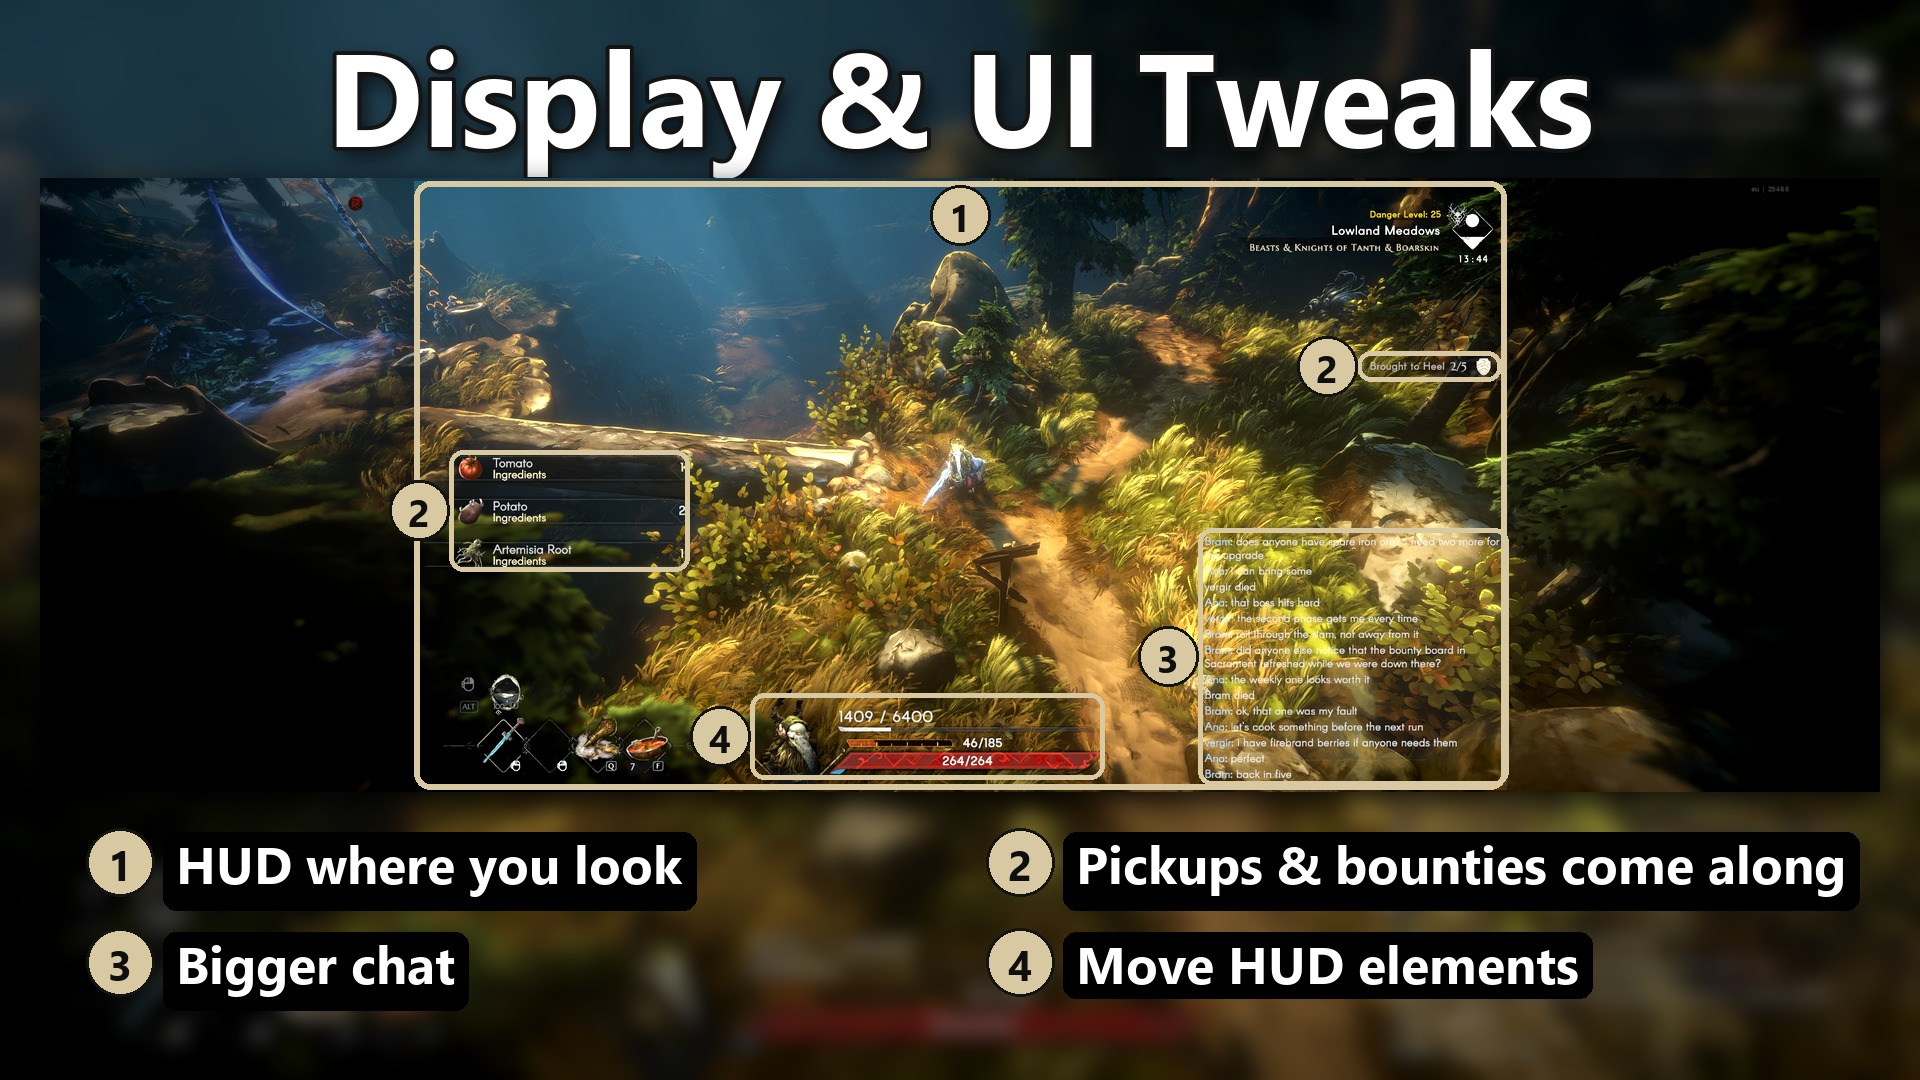
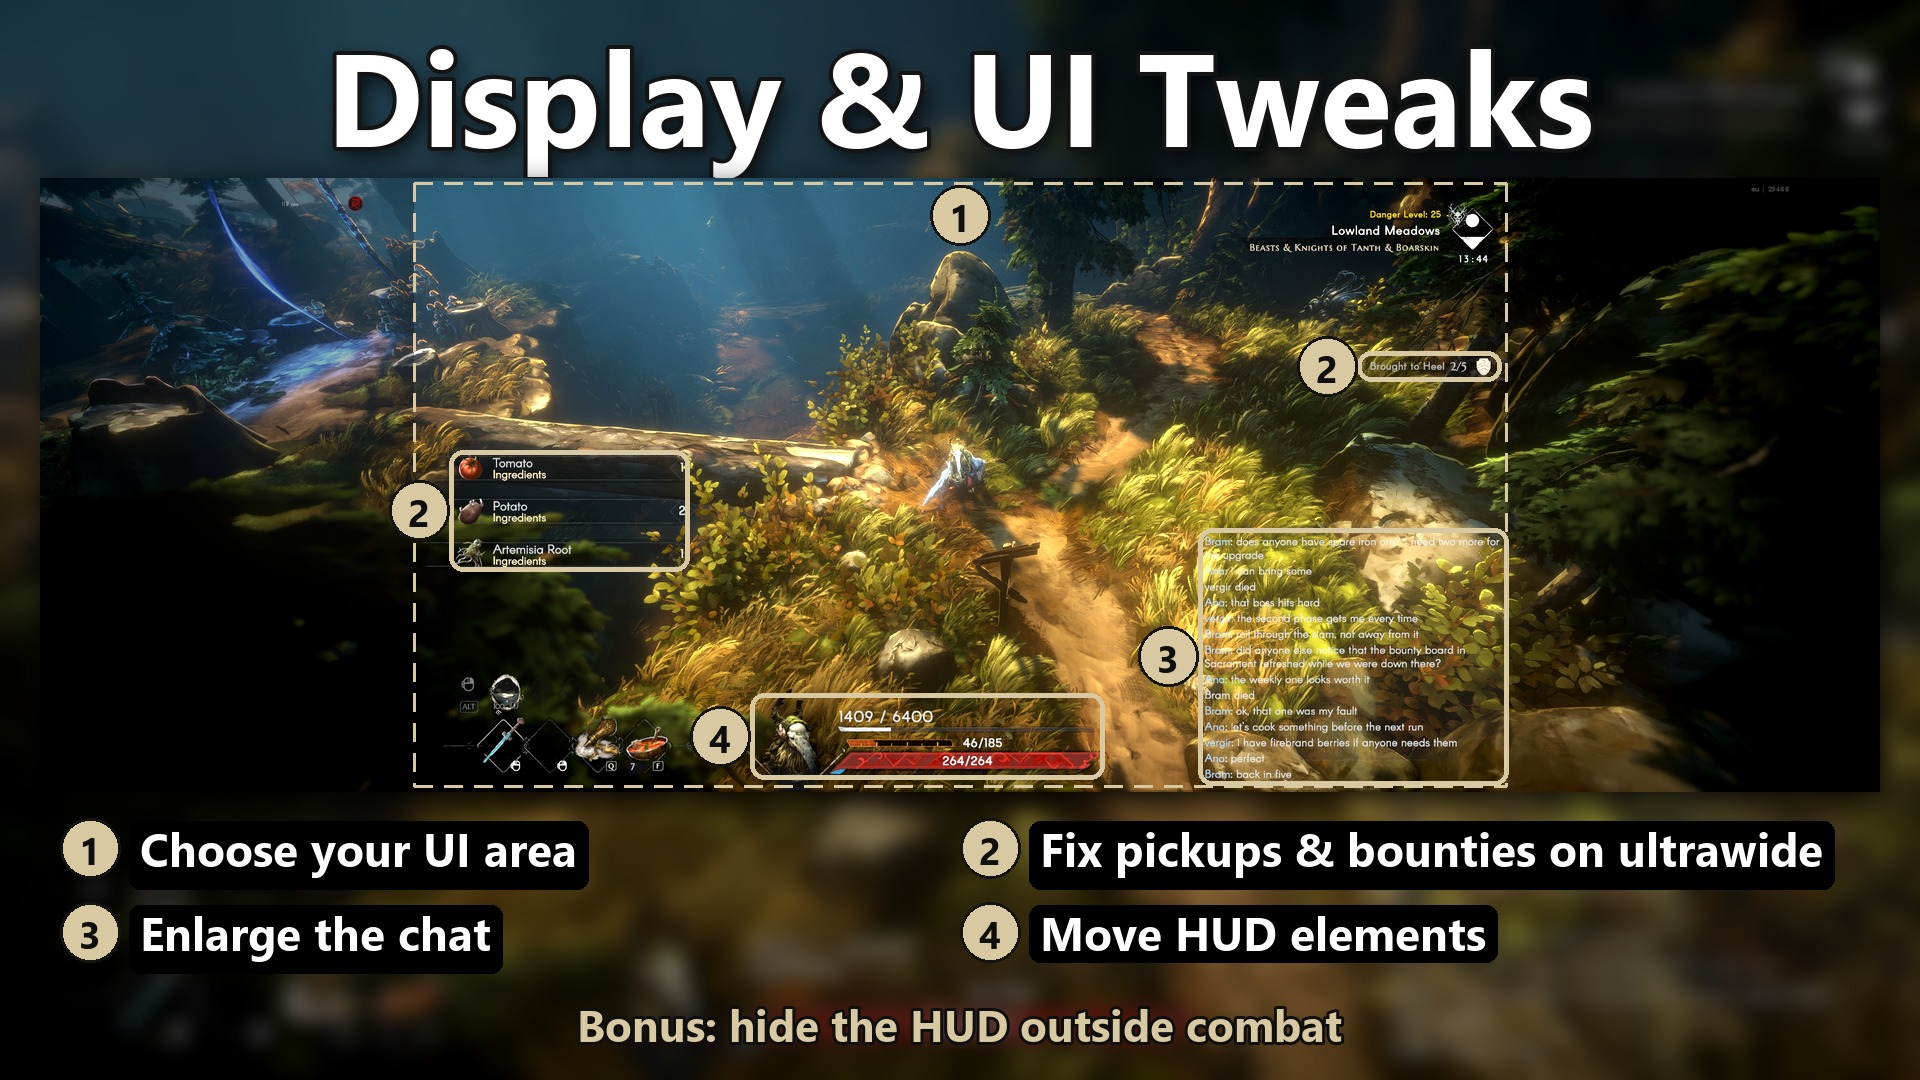
Main image: verb captions, a bonus line for Hide HUD, a thin dashed UI-area outline

diff --git a/docs/pics/make_nexus_images.py b/docs/pics/make_nexus_images.py
@@ -163,11 +163,24 @@ def save(img, name):
 # Main image: what each numbered caption points at, in raw frame pixels of the showcase shot.
 UI_AREA = (585, 4, 2293, 956)  # UI Area 1.78 on 3:1
 FEATURES = [
-    ("HUD where you look", None),                     # 1 = the UI area outline itself
-    ("Pickups & bounties come along", [(640, 425, 1015, 615), (2060, 270, 2285, 318)]),
-    ("Bigger chat", [(1812, 548, 2296, 950)]),
+    ("Choose your UI area", None),                    # 1 = the UI area outline itself
+    ("Fix pickups & bounties on ultrawide", [(640, 425, 1015, 615), (2060, 270, 2285, 318)]),
+    ("Enlarge the chat", [(1812, 548, 2296, 950)]),
     ("Move HUD elements", [(1110, 806, 1665, 940)]),
 ]
+BONUS = "Bonus: hide the HUD outside combat"
+
+
+def dashed_rect(img, r, color, width=3, dash=18, gap=12):
+    """A thin dashed outline: reads as a marked area, not as a frame around the picture."""
+    d = ImageDraw.Draw(img, "RGBA")
+    l, t, rr, b = r
+    for x in range(l, rr, dash + gap):
+        d.line((x, t, min(x + dash, rr), t), fill=color, width=width)
+        d.line((x, b, min(x + dash, rr), b), fill=color, width=width)
+    for y in range(t, b, dash + gap):
+        d.line((l, y, l, min(y + dash, b)), fill=color, width=width)
+        d.line((rr, y, rr, min(y + dash, b)), fill=color, width=width)
 
 
 def badge(img, n, xy, r=30):
@@ -189,7 +202,12 @@ def main_image():
     x0, y0 = 40, 178
     panel = ImageEnhance.Brightness(shot("showcase").resize((pw, ph), Image.LANCZOS)).enhance(1.22)
     l, t, r, b = (round(v * k) for v in UI_AREA)
-    panel = ui_area(panel, (l, t, r, b), ph / 540, dim=0.6, text=None)
+    # The UI area: the outside only slightly dimmed and a thin dashed line, so the panel still reads as the whole screen.
+    dark = ImageEnhance.Brightness(panel).enhance(0.72)
+    mask = Image.new("L", panel.size, 0)
+    ImageDraw.Draw(mask).rectangle((l, t, r, b), fill=255)
+    panel = Image.composite(panel, dark, mask).convert("RGBA")
+    dashed_rect(panel, (l, t + 2, r, b - 3), GOLD + (230,))
     for i, (_, boxes) in enumerate(FEATURES, 1):
         for bx in boxes or []:
             bb = tuple(round(v * k) for v in bx)
@@ -197,12 +215,14 @@ def main_image():
             badge(panel, i, (bb[0] - 30, (bb[1] + bb[3]) // 2))  # on the box's left edge, clear of the text
     badge(panel, 1, ((l + r) // 2, t + 34))
     shadowed_paste(img, panel, (x0, y0))
-    cy = y0 + ph + 70
+    cy = y0 + ph + 56
     for i, (text, _) in enumerate(FEATURES, 1):
-        cx = 120 + ((i - 1) % 2) * 900
-        y = cy + ((i - 1) // 2) * 100
-        badge(img, i, (cx, y), 34)
-        label(img, text, (cx + 56, y), 52, anchor="lm")
+        cx = 90 + ((i - 1) % 2) * 900
+        y = cy + ((i - 1) // 2) * 84
+        badge(img, i, (cx, y), 30)
+        label(img, text, (cx + 50, y), 46, anchor="lm")
+    d = ImageDraw.Draw(img)
+    d.text((W // 2, cy + 2 * 84 + 8), BONUS, font=font(44), fill=GOLD, anchor="mm", stroke_width=3, stroke_fill=(15, 15, 15))
     save(img, "01_main.jpg")
     return img
 
